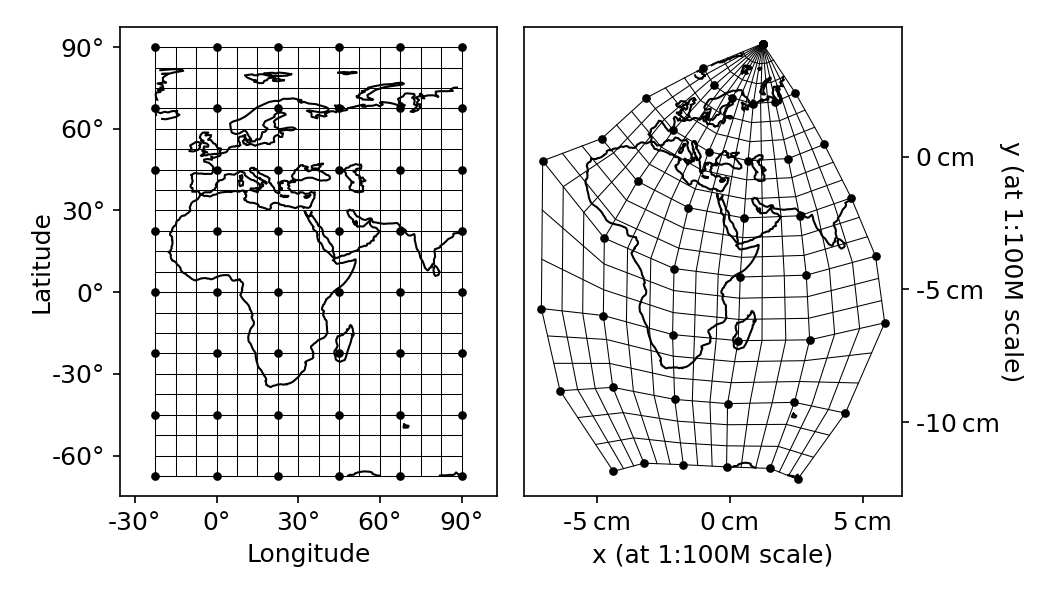
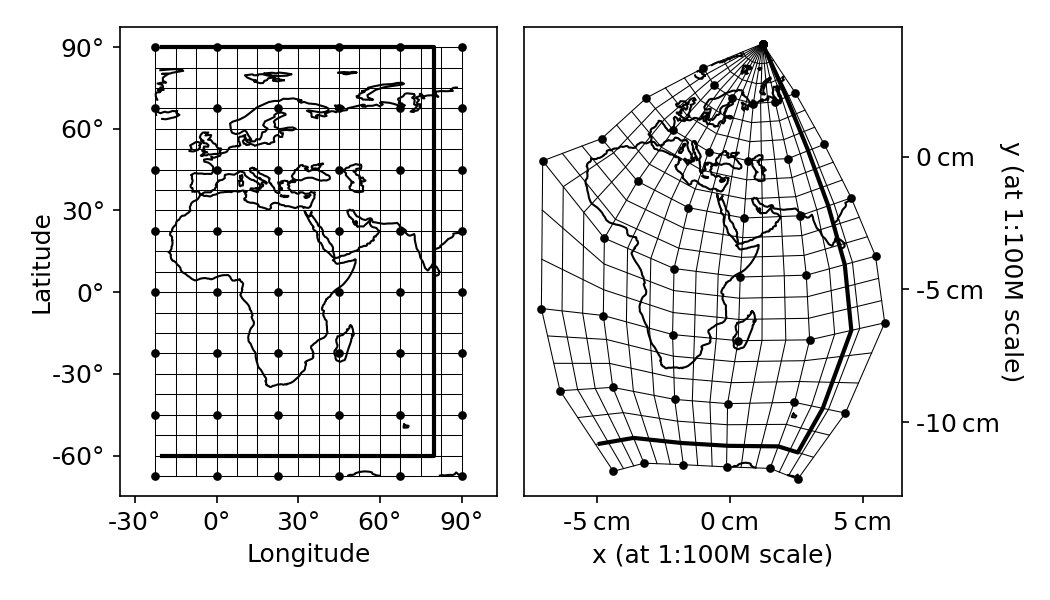
section boundaries are here (mostly)
they don't seem to be getting closed when the projection is saved, even tho I definitely told it to do so.

diff --git a/src/draw_diagrams.py b/src/draw_diagrams.py
@@ -15,6 +15,7 @@ from scipy.interpolate import RegularGridInterpolator
 
 from build_mesh import build_mesh
 from create_map_projection import create_map_projection, Mesh, load_coastline_data
+from util import refine_path
 
 
 def draw_diagrams():
@@ -44,7 +45,7 @@ def draw_diagrams():
 	plt.savefig("../resources/diagram-2.png", dpi=150)
 
 	fig, ax = plt.subplots(1, 1, figsize=(7, 4))
-	for index, color in enumerate(["#183157", "#2D4726", "#803D44"]):
+	for index, color in enumerate(["#001D47", "#0C2C03", "#5F1021"]):
 		draw_section(ax, mesh, index, color,
 		             nodes=True, boundary=False, shading=True, graticule=True, coastlines=True)
 	ax_right.set_xlabel("x (at 1:100M scale)")
@@ -59,7 +60,7 @@ def draw_diagrams():
 	plt.savefig("../resources/diagram-4.png", dpi=150)
 
 	fig, ax = plt.subplots(1, 1, figsize=(7, 4))
-	for index, color in enumerate(["#183157", "#2D4726", "#803D44"]):
+	for index, color in enumerate(["#001D47", "#0C2C03", "#5F1021"]):
 		draw_section(ax, mesh, index, color,
 		             nodes=True, boundary=True, shading=True, graticule=True, coastlines=True)
 	ax_right.set_xlabel("x (at 1:100M scale)")
@@ -113,6 +114,13 @@ def draw_section(ax: Axes, mesh: Mesh, section_index: int, color: str,
 			projected_line = project(line)
 			ax.plot(projected_line[:, 0], projected_line[:, 1],
 			        color, linewidth=1.0, zorder=20)
+	if boundary:
+		project = RegularGridInterpolator([mesh.ф, mesh.λ], mesh.nodes[section_index, :, :, :],
+		                                  bounds_error=False, fill_value=nan)
+		projected_boundary = project(refine_path(
+			mesh.section_boundaries[section_index], resolution=1))
+		ax.plot(projected_boundary[:, 0], projected_boundary[:, 1],
+		        color, linewidth=2.0, zorder=30)
 	ax.axis("equal")
 
 
@@ -136,7 +144,9 @@ def load_mesh(filename) -> Mesh:
 			section = section.decode()
 			nodes[h, :, :, 0] = file[f"{section}/projected points/points"][:, :]["x"]
 			nodes[h, :, :, 1] = file[f"{section}/projected points/points"][:, :]["y"]
-			section_boundaries.append(file[f"{section}/boundary"][:])
+			boundary = file[f"{section}/boundary"][:]
+			boundary = np.stack([boundary["latitude"], boundary["longitude"]], axis=-1)
+			section_boundaries.append(boundary)
 	return Mesh(section_boundaries, ф, λ, nodes)
 
 
